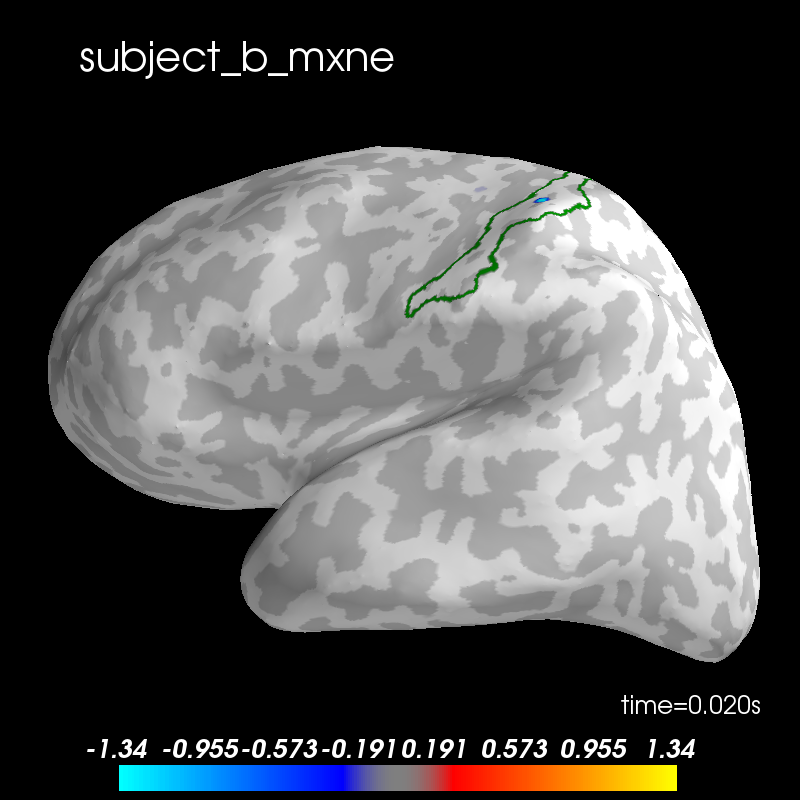
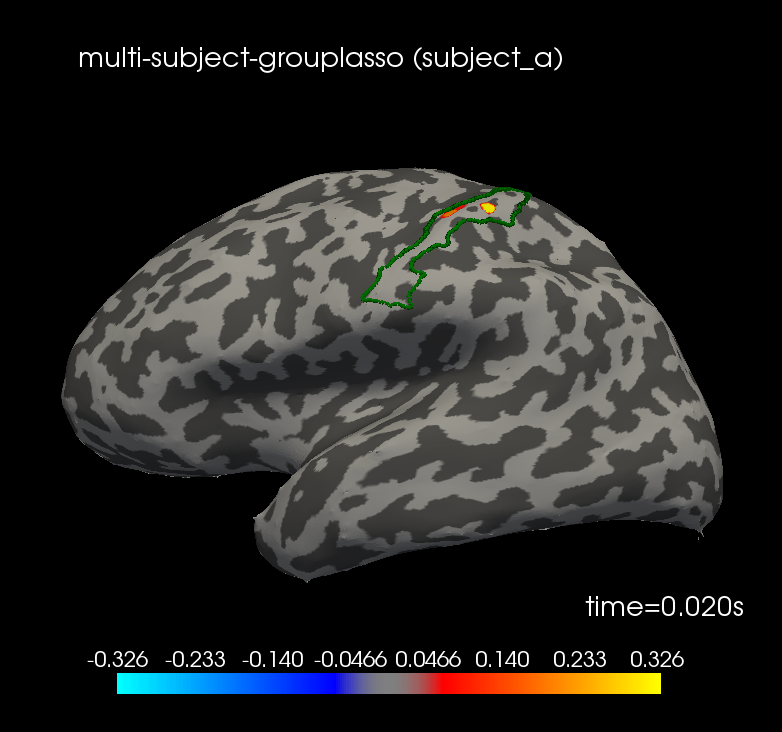
CircleCI update of dev docs (44).

diff --git a/auto_examples/plot_multitask_lasso.html b/auto_examples/plot_multitask_lasso.html
@@ -552,17 +552,27 @@ central gyrus.</p>
     <a href="https://docs.python.org/3/library/stdtypes.html#list" title="builtins.list" class="sphx-glr-backref-module-builtins sphx-glr-backref-type-py-class sphx-glr-backref-instance"><span class="n">n_sources</span></a> <span class="o">=</span> <span class="p">[</span><a href="https://docs.python.org/3/library/stdtypes.html#list" title="builtins.list" class="sphx-glr-backref-module-builtins sphx-glr-backref-type-py-class sphx-glr-backref-instance"><span class="n">stc</span><span class="o">.</span><span class="n">vertices</span></a><span class="p">[</span><span class="mi">0</span><span class="p">]</span><span class="o">.</span><span class="n">size</span><span class="p">,</span> <a href="https://docs.python.org/3/library/stdtypes.html#list" title="builtins.list" class="sphx-glr-backref-module-builtins sphx-glr-backref-type-py-class sphx-glr-backref-instance"><span class="n">stc</span><span class="o">.</span><span class="n">vertices</span></a><span class="p">[</span><span class="mi">1</span><span class="p">]</span><span class="o">.</span><span class="n">size</span><span class="p">]</span>
     <span class="n">m</span> <span class="o">=</span> <span class="nb">abs</span><span class="p">(</span><span class="n">stc</span><span class="o">.</span><span class="n">data</span><span class="p">[:</span><a href="https://docs.python.org/3/library/stdtypes.html#list" title="builtins.list" class="sphx-glr-backref-module-builtins sphx-glr-backref-type-py-class sphx-glr-backref-instance"><span class="n">n_sources</span></a><span class="p">[</span><span class="mi">0</span><span class="p">],</span> <a href="https://docs.scipy.org/doc/numpy/reference/generated/numpy.ndarray.html#numpy.ndarray" title="numpy.ndarray" class="sphx-glr-backref-module-numpy sphx-glr-backref-type-py-class sphx-glr-backref-instance"><span class="n">t_idx</span></a><span class="p">])</span><span class="o">.</span><span class="n">max</span><span class="p">()</span>
     <a href="https://docs.python.org/3/library/stdtypes.html#dict" title="builtins.dict" class="sphx-glr-backref-module-builtins sphx-glr-backref-type-py-class sphx-glr-backref-instance"><span class="n">plot_kwargs</span></a><span class="p">[</span><span class="s2">&quot;clim&quot;</span><span class="p">]</span> <span class="o">=</span> <span class="nb">dict</span><span class="p">(</span><span class="n">kind</span><span class="o">=</span><span class="s1">&#39;value&#39;</span><span class="p">,</span> <span class="n">pos_lims</span><span class="o">=</span><span class="p">[</span><span class="mf">0.</span><span class="p">,</span> <span class="mf">0.2</span> <span class="o">*</span> <span class="n">m</span><span class="p">,</span> <span class="n">m</span><span class="p">])</span>
-    <a href="https://pysurfer.github.io/generated/surfer.Brain.html#surfer.Brain" title="surfer.Brain" class="sphx-glr-backref-module-surfer sphx-glr-backref-type-py-class sphx-glr-backref-instance"><span class="n">brain</span></a> <span class="o">=</span> <span class="n">stc</span><span class="o">.</span><span class="n">plot</span><span class="p">(</span><span class="o">**</span><a href="https://docs.python.org/3/library/stdtypes.html#dict" title="builtins.dict" class="sphx-glr-backref-module-builtins sphx-glr-backref-type-py-class sphx-glr-backref-instance"><span class="n">plot_kwargs</span></a><span class="p">)</span>
-    <a href="https://pysurfer.github.io/generated/surfer.Brain.html#surfer.Brain.add_text" title="surfer.Brain.add_text" class="sphx-glr-backref-module-surfer sphx-glr-backref-type-py-method"><span class="n">brain</span><span class="o">.</span><span class="n">add_text</span></a><span class="p">(</span><span class="mf">0.1</span><span class="p">,</span> <span class="mf">0.9</span><span class="p">,</span> <a href="https://docs.python.org/3/library/stdtypes.html#str" title="builtins.str" class="sphx-glr-backref-module-builtins sphx-glr-backref-type-py-class sphx-glr-backref-instance"><span class="n">subject</span></a> <span class="o">+</span> <span class="s2">&quot;_groupmne&quot;</span><span class="p">,</span> <span class="s2">&quot;title&quot;</span><span class="p">)</span>
-    <a href="https://pysurfer.github.io/generated/surfer.Brain.html#surfer.Brain.add_label" title="surfer.Brain.add_label" class="sphx-glr-backref-module-surfer sphx-glr-backref-type-py-method"><span class="n">brain</span><span class="o">.</span><span class="n">add_label</span></a><span class="p">(</span><span class="n">g_post_central</span><span class="p">,</span> <span class="n">borders</span><span class="o">=</span><span class="kc">True</span><span class="p">,</span> <span class="n">color</span><span class="o">=</span><span class="s2">&quot;green&quot;</span><span class="p">)</span>
+    <span class="n">brain</span> <span class="o">=</span> <span class="n">stc</span><span class="o">.</span><span class="n">plot</span><span class="p">(</span><span class="o">**</span><a href="https://docs.python.org/3/library/stdtypes.html#dict" title="builtins.dict" class="sphx-glr-backref-module-builtins sphx-glr-backref-type-py-class sphx-glr-backref-instance"><span class="n">plot_kwargs</span></a><span class="p">)</span>
+    <span class="n">brain</span><span class="o">.</span><span class="n">add_text</span><span class="p">(</span><span class="mf">0.1</span><span class="p">,</span> <span class="mf">0.9</span><span class="p">,</span> <span class="s2">&quot;multi-subject-grouplasso (</span><span class="si">%s</span><span class="s2">)&quot;</span> <span class="o">%</span> <a href="https://docs.python.org/3/library/stdtypes.html#str" title="builtins.str" class="sphx-glr-backref-module-builtins sphx-glr-backref-type-py-class sphx-glr-backref-instance"><span class="n">subject</span></a><span class="p">,</span>
+                   <span class="s2">&quot;title&quot;</span><span class="p">)</span>
+    <span class="n">brain</span><span class="o">.</span><span class="n">add_label</span><span class="p">(</span><span class="n">g_post_central</span><span class="p">,</span> <span class="n">borders</span><span class="o">=</span><span class="kc">True</span><span class="p">,</span> <span class="n">color</span><span class="o">=</span><span class="s2">&quot;green&quot;</span><span class="p">)</span>
 </pre></div>
 </div>
-<img alt="../_images/sphx_glr_plot_multitask_lasso_002.png" class="sphx-glr-single-img" src="../_images/sphx_glr_plot_multitask_lasso_002.png" />
+<ul class="sphx-glr-horizontal">
+<li><img alt="../_images/sphx_glr_plot_multitask_lasso_002.png" class="sphx-glr-multi-img" src="../_images/sphx_glr_plot_multitask_lasso_002.png" />
+</li>
+<li><img alt="../_images/sphx_glr_plot_multitask_lasso_003.png" class="sphx-glr-multi-img" src="../_images/sphx_glr_plot_multitask_lasso_003.png" />
+</li>
+<li><img alt="../_images/sphx_glr_plot_multitask_lasso_004.png" class="sphx-glr-multi-img" src="../_images/sphx_glr_plot_multitask_lasso_004.png" />
+</li>
+<li><img alt="../_images/sphx_glr_plot_multitask_lasso_005.png" class="sphx-glr-multi-img" src="../_images/sphx_glr_plot_multitask_lasso_005.png" />
+</li>
+</ul>
 <p class="sphx-glr-script-out">Out:</p>
 <div class="sphx-glr-script-out highlight-none notranslate"><div class="highlight"><pre><span></span>Reading labels from parcellation...
    read 1 labels from /home/circleci/mne_data/HF_SEF/subjects/subject_a/label/lh.aparc.a2009s.annot
    read 0 labels from /home/circleci/mne_data/HF_SEF/subjects/subject_a/label/rh.aparc.a2009s.annot
-Using mayavi 3d backend.
+Using pyvista 3d backend.
 
 Reading labels from parcellation...
    read 1 labels from /home/circleci/mne_data/HF_SEF/subjects/subject_b/label/lh.aparc.a2009s.annot
@@ -587,12 +597,22 @@ individual solutions independently for each subject</p>
     <a href="https://docs.python.org/3/library/stdtypes.html#list" title="builtins.list" class="sphx-glr-backref-module-builtins sphx-glr-backref-type-py-class sphx-glr-backref-instance"><span class="n">n_sources</span></a> <span class="o">=</span> <span class="p">[</span><a href="https://docs.python.org/3/library/stdtypes.html#list" title="builtins.list" class="sphx-glr-backref-module-builtins sphx-glr-backref-type-py-class sphx-glr-backref-instance"><span class="n">stc</span><span class="o">.</span><span class="n">vertices</span></a><span class="p">[</span><span class="mi">0</span><span class="p">]</span><span class="o">.</span><span class="n">size</span><span class="p">,</span> <a href="https://docs.python.org/3/library/stdtypes.html#list" title="builtins.list" class="sphx-glr-backref-module-builtins sphx-glr-backref-type-py-class sphx-glr-backref-instance"><span class="n">stc</span><span class="o">.</span><span class="n">vertices</span></a><span class="p">[</span><span class="mi">1</span><span class="p">]</span><span class="o">.</span><span class="n">size</span><span class="p">]</span>
     <span class="n">m</span> <span class="o">=</span> <span class="nb">abs</span><span class="p">(</span><span class="n">stc</span><span class="o">.</span><span class="n">data</span><span class="p">[:</span><a href="https://docs.python.org/3/library/stdtypes.html#list" title="builtins.list" class="sphx-glr-backref-module-builtins sphx-glr-backref-type-py-class sphx-glr-backref-instance"><span class="n">n_sources</span></a><span class="p">[</span><span class="mi">0</span><span class="p">],</span> <a href="https://docs.scipy.org/doc/numpy/reference/generated/numpy.ndarray.html#numpy.ndarray" title="numpy.ndarray" class="sphx-glr-backref-module-numpy sphx-glr-backref-type-py-class sphx-glr-backref-instance"><span class="n">t_idx</span></a><span class="p">])</span><span class="o">.</span><span class="n">max</span><span class="p">()</span>
     <a href="https://docs.python.org/3/library/stdtypes.html#dict" title="builtins.dict" class="sphx-glr-backref-module-builtins sphx-glr-backref-type-py-class sphx-glr-backref-instance"><span class="n">plot_kwargs</span></a><span class="p">[</span><span class="s2">&quot;clim&quot;</span><span class="p">]</span> <span class="o">=</span> <span class="nb">dict</span><span class="p">(</span><span class="n">kind</span><span class="o">=</span><span class="s1">&#39;value&#39;</span><span class="p">,</span> <span class="n">pos_lims</span><span class="o">=</span><span class="p">[</span><span class="mf">0.</span><span class="p">,</span> <span class="mf">0.2</span> <span class="o">*</span> <span class="n">m</span><span class="p">,</span> <span class="n">m</span><span class="p">])</span>
-    <a href="https://pysurfer.github.io/generated/surfer.Brain.html#surfer.Brain" title="surfer.Brain" class="sphx-glr-backref-module-surfer sphx-glr-backref-type-py-class sphx-glr-backref-instance"><span class="n">brain</span></a> <span class="o">=</span> <span class="n">stc</span><span class="o">.</span><span class="n">plot</span><span class="p">(</span><span class="o">**</span><a href="https://docs.python.org/3/library/stdtypes.html#dict" title="builtins.dict" class="sphx-glr-backref-module-builtins sphx-glr-backref-type-py-class sphx-glr-backref-instance"><span class="n">plot_kwargs</span></a><span class="p">)</span>
-    <a href="https://pysurfer.github.io/generated/surfer.Brain.html#surfer.Brain.add_text" title="surfer.Brain.add_text" class="sphx-glr-backref-module-surfer sphx-glr-backref-type-py-method"><span class="n">brain</span><span class="o">.</span><span class="n">add_text</span></a><span class="p">(</span><span class="mf">0.1</span><span class="p">,</span> <span class="mf">0.9</span><span class="p">,</span> <a href="https://docs.python.org/3/library/stdtypes.html#str" title="builtins.str" class="sphx-glr-backref-module-builtins sphx-glr-backref-type-py-class sphx-glr-backref-instance"><span class="n">subject</span></a> <span class="o">+</span> <span class="s2">&quot;_mxne&quot;</span><span class="p">,</span> <span class="s2">&quot;title&quot;</span><span class="p">)</span>
-    <a href="https://pysurfer.github.io/generated/surfer.Brain.html#surfer.Brain.add_label" title="surfer.Brain.add_label" class="sphx-glr-backref-module-surfer sphx-glr-backref-type-py-method"><span class="n">brain</span><span class="o">.</span><span class="n">add_label</span></a><span class="p">(</span><span class="n">g_post_central</span><span class="p">,</span> <span class="n">borders</span><span class="o">=</span><span class="kc">True</span><span class="p">,</span> <span class="n">color</span><span class="o">=</span><span class="s2">&quot;green&quot;</span><span class="p">)</span>
+    <span class="n">brain</span> <span class="o">=</span> <span class="n">stc</span><span class="o">.</span><span class="n">plot</span><span class="p">(</span><span class="o">**</span><a href="https://docs.python.org/3/library/stdtypes.html#dict" title="builtins.dict" class="sphx-glr-backref-module-builtins sphx-glr-backref-type-py-class sphx-glr-backref-instance"><span class="n">plot_kwargs</span></a><span class="p">)</span>
+    <span class="n">brain</span><span class="o">.</span><span class="n">add_text</span><span class="p">(</span><span class="mf">0.1</span><span class="p">,</span> <span class="mf">0.9</span><span class="p">,</span> <span class="s2">&quot;single-subject-grouplasso (</span><span class="si">%s</span><span class="s2">)&quot;</span> <span class="o">%</span> <a href="https://docs.python.org/3/library/stdtypes.html#str" title="builtins.str" class="sphx-glr-backref-module-builtins sphx-glr-backref-type-py-class sphx-glr-backref-instance"><span class="n">subject</span></a><span class="p">,</span>
+                   <span class="s2">&quot;title&quot;</span><span class="p">)</span>
+    <span class="n">brain</span><span class="o">.</span><span class="n">add_label</span><span class="p">(</span><span class="n">g_post_central</span><span class="p">,</span> <span class="n">borders</span><span class="o">=</span><span class="kc">True</span><span class="p">,</span> <span class="n">color</span><span class="o">=</span><span class="s2">&quot;green&quot;</span><span class="p">)</span>
 </pre></div>
 </div>
-<img alt="../_images/sphx_glr_plot_multitask_lasso_003.png" class="sphx-glr-single-img" src="../_images/sphx_glr_plot_multitask_lasso_003.png" />
+<ul class="sphx-glr-horizontal">
+<li><img alt="../_images/sphx_glr_plot_multitask_lasso_006.png" class="sphx-glr-multi-img" src="../_images/sphx_glr_plot_multitask_lasso_006.png" />
+</li>
+<li><img alt="../_images/sphx_glr_plot_multitask_lasso_007.png" class="sphx-glr-multi-img" src="../_images/sphx_glr_plot_multitask_lasso_007.png" />
+</li>
+<li><img alt="../_images/sphx_glr_plot_multitask_lasso_008.png" class="sphx-glr-multi-img" src="../_images/sphx_glr_plot_multitask_lasso_008.png" />
+</li>
+<li><img alt="../_images/sphx_glr_plot_multitask_lasso_009.png" class="sphx-glr-multi-img" src="../_images/sphx_glr_plot_multitask_lasso_009.png" />
+</li>
+</ul>
 <p class="sphx-glr-script-out">Out:</p>
 <div class="sphx-glr-script-out highlight-none notranslate"><div class="highlight"><pre><span></span>Mapping lh fsaverage -&gt; subject_a (nearest neighbor)...
 Mapping rh fsaverage -&gt; subject_a (nearest neighbor)...
@@ -615,8 +635,8 @@ PLOS ONE, 2017</p>
 <p>[2] Jussi Nurminen, Hilla Paananen, &amp; Jyrki Mäkelä. (2017). High frequency
 somatosensory MEG: evoked responses, FreeSurfer reconstruction [Data set].
 Zenodo. <a class="reference external" href="http://doi.org/10.5281/zenodo.889235">http://doi.org/10.5281/zenodo.889235</a></p>
-<p class="sphx-glr-timing"><strong>Total running time of the script:</strong> ( 3 minutes  49.698 seconds)</p>
-<p><strong>Estimated memory usage:</strong>  2146 MB</p>
+<p class="sphx-glr-timing"><strong>Total running time of the script:</strong> ( 4 minutes  2.859 seconds)</p>
+<p><strong>Estimated memory usage:</strong>  2139 MB</p>
 <div class="sphx-glr-footer class sphx-glr-footer-example docutils container" id="sphx-glr-download-auto-examples-plot-multitask-lasso-py">
 <div class="sphx-glr-download docutils container">
 <p><a class="reference download internal" download="" href="../_downloads/45146276276cf3fc190712a4bb65965f/plot_multitask_lasso.py"><code class="xref download docutils literal notranslate"><span class="pre">Download</span> <span class="pre">Python</span> <span class="pre">source</span> <span class="pre">code:</span> <span class="pre">plot_multitask_lasso.py</span></code></a></p>

diff --git a/searchindex.js b/searchindex.js
@@ -1,1 +1,1 @@
-Search.setIndex({docnames:["api","auto_examples/index","auto_examples/plot_multitask_lasso","auto_examples/sg_execution_times","generated/groupmne.compute_fwd","generated/groupmne.compute_group_inverse","generated/groupmne.prepare_fwds","index"],envversion:{"sphinx.domains.c":1,"sphinx.domains.changeset":1,"sphinx.domains.citation":1,"sphinx.domains.cpp":1,"sphinx.domains.index":1,"sphinx.domains.javascript":1,"sphinx.domains.math":2,"sphinx.domains.python":1,"sphinx.domains.rst":1,"sphinx.domains.std":1,"sphinx.ext.intersphinx":1,"sphinx.ext.viewcode":1,sphinx:56},filenames:["api.rst","auto_examples/index.rst","auto_examples/plot_multitask_lasso.rst","auto_examples/sg_execution_times.rst","generated/groupmne.compute_fwd.rst","generated/groupmne.compute_group_inverse.rst","generated/groupmne.prepare_fwds.rst","index.rst"],objects:{groupmne:{compute_fwd:[4,0,1,""],compute_group_inverse:[5,0,1,""],prepare_fwds:[6,0,1,""]}},objnames:{"0":["py","function","Python function"]},objtypes:{"0":"py:function"},terms:{"20m":2,"300m":2,"50m":2,"boolean":5,"default":[4,5],"float":[4,5],"function":[0,2],"import":2,"int":4,"m\u00e4kel\u00e4":2,"return":[2,5,6],"true":[2,4,5,6],Ales:2,Doing:2,For:[2,7],IDs:2,Not:2,ONE:2,RAS:2,The:[1,2,4,6,7],Use:4,Using:2,With:2,_groupmn:2,_mxne:2,a2009:2,abs:2,accur:2,across:2,act:5,activ:[2,7],add_dist:2,add_label:2,add_text:2,addit:5,after:2,agg:2,aim:2,align:[2,6],all:[1,2,7],alpha:2,angl:2,ani:7,annot:2,anthoni:2,aparc:2,append:2,appli:[2,5],argument:5,around:2,assum:2,author:2,auto_exampl:3,auto_examples_jupyt:1,auto_examples_python:1,autossp:2,averag:2,awai:2,axes:2,backend:2,bad:2,baselin:2,befor:2,below:4,bem:[2,4],bem_fnam:4,bem_fname_:2,benoit:2,between:[2,5],bind:7,bool:[4,6],border:2,brain:2,bsd:2,bug:7,cannot:2,central:2,channel:[2,4],check:2,circleci:2,claus:2,click:2,clim:2,clone:7,closer:2,code:[1,2],coil:2,color:2,com:7,compens:2,compos:2,comput:[5,6],compute_covari:2,compute_fwd:2,compute_group_invers:2,conda:7,condit:2,conductor:2,conductormodel:2,congruent:7,control:2,coord:2,coordin:2,copi:[2,6],correct:2,cortex:2,cottereau:2,cov:2,cov_fnam:2,covari:[2,5],creat:[2,7],crop:2,current:2,data_path:2,dataset:2,decim:2,def:2,definit:2,del:2,demonstr:1,depth:5,destin:2,develop:7,devic:2,dict:2,dim:2,dimens:2,directori:4,dirti:5,discard:4,distanc:4,doi:2,done:2,download:1,drop:2,each:[2,5],eeg:[2,4,7],effect:2,eigenvalu:2,empir:2,emploi:2,encount:7,end:2,env:7,environ:[2,7],epoch:2,epochs_:2,eps:2,equival:5,estim:[2,5],evalu:2,event:2,event_id:2,evok:[2,5],exactli:2,exampl:2,execut:3,exp:5,expandus:2,expon:5,extract:2,fals:[2,5,6],few:2,field:2,fif:[2,4],figur:2,file:[2,3,4,7],find_ev:2,finish:2,first:2,fit:2,follow:2,fontsiz:2,forward:[4,5,6],found:2,free:2,freesurf:[2,4],frequenc:2,from:[2,4],fsaverag:[2,4],full:2,further:7,fwd:[2,5,6],fwd_:2,fwds_:2,g_post_centr:2,g_postcentr:2,gain:2,galleri:2,gener:[1,2],geometri:2,get_src_refer:4,git:7,github:7,grad:2,grade:2,grai:2,green:2,group:[5,6],groupmn:[2,7],guarante:2,gui:2,gyri:2,gyru:2,hand:2,hasti:2,head:2,help:7,hemi:2,hemispher:2,here:2,hf_sef:2,hf_sef_15min_raw:2,hicham:[2,7],hichamjanati:7,high:2,highlight:2,hilla:2,home:2,homogen:2,how:[2,5],http:[2,7],hyperparamet:2,ico:2,icosahedr:2,icosahedron:2,idl:2,improv:2,includ:4,independ:2,individu:2,info:[2,4],inform:7,initial_tim:2,inplac:6,inria:[2,7],insid:2,instanc:[2,4,6],instant:2,interior:2,invers:[5,7],ipynb:2,item:2,janati:[2,7],job:4,joint:[1,3,5],jointli:7,jupyt:[1,2],jussi:2,justin:2,jyrki:2,keyword:5,kind:2,label:2,lasso:5,later:2,least:2,left:2,let:2,leverag:2,licens:2,lim:2,linear_colloc:2,list:[5,6],load:2,local:[1,3],locat:2,mag:2,mani:7,map:2,match:2,matplotlib:2,matrix:2,max:2,mayavi:2,mean:[2,5],measur:2,meg:[4,7],meg_path:2,memori:2,metadata:2,method:[2,5],michael:2,mindist:[2,4],minim:7,minut:2,mne:[4,5,6],mne_data:2,mode:[2,4],model:[1,3,5,6],modifi:6,more:2,morph:[2,4,6],mri:2,mtw:5,multi:[1,3],multitasklasso:[2,5],must:[2,5],n20:2,n_job:[2,4],n_sourc:2,n_use:2,n_vertic:2,name:4,nearest:2,need:2,neighbor:2,next:2,nois:[2,5],noise_cov:[2,5],non:2,none:[2,4,5],norcia:2,normal:[2,5],notebook:[1,2],noth:2,now:2,number:[2,4],nurminen:2,object:5,one:[2,5],onli:[2,5],open:2,oper:[2,4,6],order:2,org:2,orient:2,origin:2,otherwis:7,out:2,outer:4,paananen:2,packag:[1,7],parallel:[2,4],parallel_func:2,paramet:[2,4,5,6],parcel:2,pass:5,path:[2,4],pattern:2,pca:2,perform:[5,7],pick:2,pick_typ:2,pleas:7,plo:2,plot:2,plot_kwarg:2,plot_multitask_lasso:[2,3],plt:2,point:2,pos_lim:2,posit:2,post:2,prepar:[2,6],prepare_fwd:2,primari:2,prior:[2,5],problem:7,process_meg:2,proj:2,project:2,projector:2,provid:[1,2],purpos:2,pyplot:2,python:[1,2,7],qhull:2,radiu:2,rang:2,rank:2,ravel:2,raw:[2,4],raw_nam:2,raw_name_:2,read:2,read_labels_from_annot:2,read_raw_fif:2,readi:2,recommend:7,reconstruct:2,reduc:2,refer:[4,6],regexp:2,regular:7,relasso:5,remtw:5,resolut:2,respons:2,restric:2,right:2,run:[2,4],run_func:2,safeti:4,same:2,sampl:[1,2],script:2,sec:2,second:2,see:[4,7],sef:2,sef_right_raw:2,select:2,set:2,set_titl:2,setup:7,setup_source_spac:2,sharei:2,show:2,similar:2,sinc:2,singular:2,size:2,skip:2,skull:4,small:[2,7],smoothing_step:2,sol:2,solid:2,solut:[2,4,5],soluton:5,solv:7,solver:5,solver_kwarg:5,solvers_kwarg:5,somatosensori:2,sourc:[1,3,4,5,6],sourceestim:5,sourcespac:[2,4,6],space:[4,6],spars:2,sparsiti:2,spatiotempor:[2,5],sphere:2,sphinx:[1,2],src_ref:[2,4,6],ssp:2,start:2,stc:[2,5],step:2,stimulu:2,str:[2,4,5],structur:2,subdivis:2,subj:2,subject:[1,3,4,5],subject_:2,subject_a:2,subject_b:2,subjects_dir:[2,4],subplot:2,subspac:2,sulci:2,surf:2,surfac:2,t_idx:2,take:2,task:[1,3],thi:[2,7],thu:2,time:2,time_as_index:2,time_unit:2,titl:2,tmax:2,tmin:2,toler:2,total:[2,3],tran:[2,4],trans_fnam:4,trans_fname_:2,transform:2,trevor:2,triangl:2,triangul:2,trigger:2,tutori:[2,7],two:2,usag:[1,2],use:[2,4,5],used:[2,5],userwarn:2,using:[2,5,7],valu:2,variou:1,verbos:[4,5],version:7,vertex:2,vertic:2,via:2,view:2,visual:2,warn:2,weight:5,which:[2,5],white:2,without:2,work:[1,7],yml:7,you:2,zenodo:2,zero:2,zip:[1,2]},titles:["API Documentation","Examples Gallery","Multi-subject joint source localization with multi-task models.","Computation times","groupmne.compute_fwd","groupmne.compute_group_inverse","groupmne.prepare_fwds","multi-subject source localization with MNE"],titleterms:{accuraci:2,api:0,better:2,code:0,comput:[2,3],compute_fwd:4,compute_group_invers:5,contact:7,data:2,descript:7,document:0,download:2,exampl:[1,7],forward:2,galleri:1,group:2,groupmn:[4,5,6],instal:7,invers:2,joint:2,lasso:2,lead:2,local:[2,7],meg:2,mne:[2,7],model:2,multi:[2,7],prepare_fwd:6,problem:2,process:2,refer:2,solv:2,sourc:[2,7],space:2,subject:[2,7],task:2,time:3}})
+Search.setIndex({docnames:["api","auto_examples/index","auto_examples/plot_multitask_lasso","auto_examples/sg_execution_times","generated/groupmne.compute_fwd","generated/groupmne.compute_group_inverse","generated/groupmne.prepare_fwds","index"],envversion:{"sphinx.domains.c":1,"sphinx.domains.changeset":1,"sphinx.domains.citation":1,"sphinx.domains.cpp":1,"sphinx.domains.index":1,"sphinx.domains.javascript":1,"sphinx.domains.math":2,"sphinx.domains.python":1,"sphinx.domains.rst":1,"sphinx.domains.std":1,"sphinx.ext.intersphinx":1,"sphinx.ext.viewcode":1,sphinx:56},filenames:["api.rst","auto_examples/index.rst","auto_examples/plot_multitask_lasso.rst","auto_examples/sg_execution_times.rst","generated/groupmne.compute_fwd.rst","generated/groupmne.compute_group_inverse.rst","generated/groupmne.prepare_fwds.rst","index.rst"],objects:{groupmne:{compute_fwd:[4,0,1,""],compute_group_inverse:[5,0,1,""],prepare_fwds:[6,0,1,""]}},objnames:{"0":["py","function","Python function"]},objtypes:{"0":"py:function"},terms:{"20m":2,"300m":2,"50m":2,"boolean":5,"default":[4,5],"float":[4,5],"function":[0,2],"import":2,"int":4,"m\u00e4kel\u00e4":2,"return":[2,5,6],"true":[2,4,5,6],Ales:2,Doing:2,For:[2,7],IDs:2,Not:2,ONE:2,RAS:2,The:[1,2,4,6,7],Use:4,Using:2,With:2,a2009:2,abs:2,accur:2,across:2,act:5,activ:[2,7],add_dist:2,add_label:2,add_text:2,addit:5,after:2,agg:2,aim:2,align:[2,6],all:[1,2,7],alpha:2,angl:2,ani:7,annot:2,anthoni:2,aparc:2,append:2,appli:[2,5],argument:5,around:2,assum:2,author:2,auto_exampl:3,auto_examples_jupyt:1,auto_examples_python:1,autossp:2,averag:2,awai:2,axes:2,backend:2,bad:2,baselin:2,befor:2,below:4,bem:[2,4],bem_fnam:4,bem_fname_:2,benoit:2,between:[2,5],bind:7,bool:[4,6],border:2,brain:2,bsd:2,bug:7,cannot:2,central:2,channel:[2,4],check:2,circleci:2,claus:2,click:2,clim:2,clone:7,closer:2,code:[1,2],coil:2,color:2,com:7,compens:2,compos:2,comput:[5,6],compute_covari:2,compute_fwd:2,compute_group_invers:2,conda:7,condit:2,conductor:2,conductormodel:2,congruent:7,control:2,coord:2,coordin:2,copi:[2,6],correct:2,cortex:2,cottereau:2,cov:2,cov_fnam:2,covari:[2,5],creat:[2,7],crop:2,current:2,data_path:2,dataset:2,decim:2,def:2,definit:2,del:2,demonstr:1,depth:5,destin:2,develop:7,devic:2,dict:2,dim:2,dimens:2,directori:4,dirti:5,discard:4,distanc:4,doi:2,done:2,download:1,drop:2,each:[2,5],eeg:[2,4,7],effect:2,eigenvalu:2,empir:2,emploi:2,encount:7,end:2,env:7,environ:[2,7],epoch:2,epochs_:2,eps:2,equival:5,estim:[2,5],evalu:2,event:2,event_id:2,evok:[2,5],exactli:2,exampl:2,execut:3,exp:5,expandus:2,expon:5,extract:2,fals:[2,5,6],few:2,field:2,fif:[2,4],figur:2,file:[2,3,4,7],find_ev:2,finish:2,first:2,fit:2,follow:2,fontsiz:2,forward:[4,5,6],found:2,free:2,freesurf:[2,4],frequenc:2,from:[2,4],fsaverag:[2,4],full:2,further:7,fwd:[2,5,6],fwd_:2,fwds_:2,g_post_centr:2,g_postcentr:2,gain:2,galleri:2,gener:[1,2],geometri:2,get_src_refer:4,git:7,github:7,grad:2,grade:2,grai:2,green:2,group:[5,6],grouplasso:2,groupmn:[2,7],guarante:2,gui:2,gyri:2,gyru:2,hand:2,hasti:2,head:2,help:7,hemi:2,hemispher:2,here:2,hf_sef:2,hf_sef_15min_raw:2,hicham:[2,7],hichamjanati:7,high:2,highlight:2,hilla:2,home:2,homogen:2,how:[2,5],http:[2,7],hyperparamet:2,ico:2,icosahedr:2,icosahedron:2,idl:2,improv:2,includ:4,independ:2,individu:2,info:[2,4],inform:7,initial_tim:2,inplac:6,inria:[2,7],insid:2,instanc:[2,4,6],instant:2,interior:2,invers:[5,7],ipynb:2,item:2,janati:[2,7],job:4,joint:[1,3,5],jointli:7,jupyt:[1,2],jussi:2,justin:2,jyrki:2,keyword:5,kind:2,label:2,lasso:5,later:2,least:2,left:2,let:2,leverag:2,licens:2,lim:2,linear_colloc:2,list:[5,6],load:2,local:[1,3],locat:2,mag:2,mani:7,map:2,match:2,matplotlib:2,matrix:2,max:2,mean:[2,5],measur:2,meg:[4,7],meg_path:2,memori:2,metadata:2,method:[2,5],michael:2,mindist:[2,4],minim:7,minut:2,mne:[4,5,6],mne_data:2,mode:[2,4],model:[1,3,5,6],modifi:6,more:2,morph:[2,4,6],mri:2,mtw:5,multi:[1,3],multitasklasso:[2,5],must:[2,5],n20:2,n_job:[2,4],n_sourc:2,n_use:2,n_vertic:2,name:4,nearest:2,need:2,neighbor:2,next:2,nois:[2,5],noise_cov:[2,5],non:2,none:[2,4,5],norcia:2,normal:[2,5],notebook:[1,2],noth:2,now:2,number:[2,4],nurminen:2,object:5,one:[2,5],onli:[2,5],open:2,oper:[2,4,6],order:2,org:2,orient:2,origin:2,otherwis:7,out:2,outer:4,paananen:2,packag:[1,7],parallel:[2,4],parallel_func:2,paramet:[2,4,5,6],parcel:2,pass:5,path:[2,4],pattern:2,pca:2,perform:[5,7],pick:2,pick_typ:2,pleas:7,plo:2,plot:2,plot_kwarg:2,plot_multitask_lasso:[2,3],plt:2,point:2,pos_lim:2,posit:2,post:2,prepar:[2,6],prepare_fwd:2,primari:2,prior:[2,5],problem:7,process_meg:2,proj:2,project:2,projector:2,provid:[1,2],purpos:2,pyplot:2,python:[1,2,7],pyvista:2,qhull:2,radiu:2,rang:2,rank:2,ravel:2,raw:[2,4],raw_nam:2,raw_name_:2,read:2,read_labels_from_annot:2,read_raw_fif:2,readi:2,recommend:7,reconstruct:2,reduc:2,refer:[4,6],regexp:2,regular:7,relasso:5,remtw:5,resolut:2,respons:2,restric:2,right:2,run:[2,4],run_func:2,safeti:4,same:2,sampl:[1,2],script:2,sec:2,second:2,see:[4,7],sef:2,sef_right_raw:2,select:2,set:2,set_titl:2,setup:7,setup_source_spac:2,sharei:2,show:2,similar:2,sinc:2,singl:2,singular:2,size:2,skip:2,skull:4,small:[2,7],smoothing_step:2,sol:2,solid:2,solut:[2,4,5],soluton:5,solv:7,solver:5,solver_kwarg:5,solvers_kwarg:5,somatosensori:2,sourc:[1,3,4,5,6],sourceestim:5,sourcespac:[2,4,6],space:[4,6],spars:2,sparsiti:2,spatiotempor:[2,5],sphere:2,sphinx:[1,2],src_ref:[2,4,6],ssp:2,start:2,stc:[2,5],step:2,stimulu:2,str:[2,4,5],structur:2,subdivis:2,subj:2,subject:[1,3,4,5],subject_:2,subject_a:2,subject_b:2,subjects_dir:[2,4],subplot:2,subspac:2,sulci:2,surf:2,surfac:2,t_idx:2,take:2,task:[1,3],thi:[2,7],thu:2,time:2,time_as_index:2,time_unit:2,titl:2,tmax:2,tmin:2,toler:2,total:[2,3],tran:[2,4],trans_fnam:4,trans_fname_:2,transform:2,trevor:2,triangl:2,triangul:2,trigger:2,tutori:[2,7],two:2,usag:[1,2],use:[2,4,5],used:[2,5],userwarn:2,using:[2,5,7],valu:2,variou:1,verbos:[4,5],version:7,vertex:2,vertic:2,via:2,view:2,visual:2,warn:2,weight:5,which:[2,5],white:2,without:2,work:[1,7],yml:7,you:2,zenodo:2,zero:2,zip:[1,2]},titles:["API Documentation","Examples Gallery","Multi-subject joint source localization with multi-task models.","Computation times","groupmne.compute_fwd","groupmne.compute_group_inverse","groupmne.prepare_fwds","multi-subject source localization with MNE"],titleterms:{accuraci:2,api:0,better:2,code:0,comput:[2,3],compute_fwd:4,compute_group_invers:5,contact:7,data:2,descript:7,document:0,download:2,exampl:[1,7],forward:2,galleri:1,group:2,groupmn:[4,5,6],instal:7,invers:2,joint:2,lasso:2,lead:2,local:[2,7],meg:2,mne:[2,7],model:2,multi:[2,7],prepare_fwd:6,problem:2,process:2,refer:2,solv:2,sourc:[2,7],space:2,subject:[2,7],task:2,time:3}})

diff --git a/auto_examples/sg_execution_times.html b/auto_examples/sg_execution_times.html
@@ -115,7 +115,7 @@
       
   <div class="section" id="computation-times">
 <span id="sphx-glr-auto-examples-sg-execution-times"></span><h1>Computation times<a class="headerlink" href="#computation-times" title="Permalink to this headline">¶</a></h1>
-<p><strong>03:49.698</strong> total execution time for <strong>auto_examples</strong> files:</p>
+<p><strong>04:02.859</strong> total execution time for <strong>auto_examples</strong> files:</p>
 <table class="docutils align-default">
 <colgroup>
 <col style="width: 79%" />
@@ -124,8 +124,8 @@
 </colgroup>
 <tbody>
 <tr class="row-odd"><td><p><a class="reference internal" href="plot_multitask_lasso.html#sphx-glr-auto-examples-plot-multitask-lasso-py"><span class="std std-ref">Multi-subject joint source localization with multi-task models.</span></a> (<code class="docutils literal notranslate"><span class="pre">plot_multitask_lasso.py</span></code>)</p></td>
-<td><p>03:49.698</p></td>
-<td><p>2145.8 MB</p></td>
+<td><p>04:02.859</p></td>
+<td><p>2138.9 MB</p></td>
 </tr>
 </tbody>
 </table>

diff --git a/_downloads/45146276276cf3fc190712a4bb65965f/plot_multitask_lasso.py b/_downloads/45146276276cf3fc190712a4bb65965f/plot_multitask_lasso.py
@@ -165,7 +165,8 @@ for stc, subject in zip(stcs, subjects):
     m = abs(stc.data[:n_sources[0], t_idx]).max()
     plot_kwargs["clim"] = dict(kind='value', pos_lims=[0., 0.2 * m, m])
     brain = stc.plot(**plot_kwargs)
-    brain.add_text(0.1, 0.9, subject + "_groupmne", "title")
+    brain.add_text(0.1, 0.9, "multi-subject-grouplasso (%s)" % subject,
+                   "title")
     brain.add_label(g_post_central, borders=True, color="green")
 
 #####################################
@@ -189,7 +190,8 @@ for subject, fwd, evoked, cov in zip(subjects, fwds_, evokeds, noise_covs):
     m = abs(stc.data[:n_sources[0], t_idx]).max()
     plot_kwargs["clim"] = dict(kind='value', pos_lims=[0., 0.2 * m, m])
     brain = stc.plot(**plot_kwargs)
-    brain.add_text(0.1, 0.9, subject + "_mxne", "title")
+    brain.add_text(0.1, 0.9, "single-subject-grouplasso (%s)" % subject,
+                   "title")
     brain.add_label(g_post_central, borders=True, color="green")
 
 
